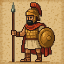
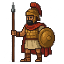
Enhance unit movement and rendering systems
- Updated movement logic to allow military units to move from any land tile, not just Plains.
- Added new systems for spawning and updating unit sprites and capital sprites.
- Introduced UnitSprite and CapitalSprite components for better entity management.
- Improved rendering logic to handle unit sprites instead of using gizmos for infantry.

diff --git a/dominion_earth/src/rendering.rs b/dominion_earth/src/rendering.rs
@@ -15,6 +15,16 @@ pub struct WorldTile {
     pub terrain_type: TerrainType,
 }
 
+#[derive(Component)]
+pub struct UnitSprite {
+    pub unit_entity: Entity,
+}
+
+#[derive(Component)]
+pub struct CapitalSprite {
+    pub civ_id: CivId,
+}
+
 /// Load tile assets
 pub fn setup_tile_assets(mut commands: Commands, asset_server: Res<AssetServer>) {
     let tile_assets = TileAssets {
@@ -92,16 +102,82 @@ fn get_civ_color(civ_id: &CivId) -> Color {
     Color::srgb(r + m, g + m, b + m)
 }
 
+/// System to spawn unit sprites once when units are created
+pub fn spawn_unit_sprites(
+    mut commands: Commands,
+    units: Query<(Entity, &MilitaryUnit, &Position), Without<UnitSprite>>,
+    unit_assets: Res<crate::unit_assets::UnitAssets>,
+) {
+    let tile_size = 64.0;
+    let map_offset = Vec2::new(-3200.0, -1600.0);
+
+    for (unit_entity, unit, position) in units.iter() {
+        let screen_pos = map_offset + Vec2::new(position.x as f32 * tile_size, position.y as f32 * tile_size);
+        
+        match unit.unit_type {
+            UnitType::Infantry => {
+                let sprite_entity = commands.spawn((
+                    Sprite::from_image(unit_assets.ancient_infantry.clone()),
+                    Transform::from_translation(screen_pos.extend(15.0))
+                        .with_scale(Vec3::splat(1.0)),
+                )).id();
+                
+                // Add UnitSprite component to the unit entity to track its sprite
+                commands.entity(unit_entity).insert(UnitSprite { unit_entity: sprite_entity });
+            }
+            _ => {
+                // For non-Infantry units, we'll still use gizmos for now
+            }
+        }
+    }
+}
+
+/// System to update unit sprite positions when units move
+pub fn update_unit_sprites(
+    units: Query<(&MilitaryUnit, &Position, &UnitSprite), Changed<Position>>,
+    mut sprites: Query<&mut Transform, With<Sprite>>,
+) {
+    let tile_size = 64.0;
+    let map_offset = Vec2::new(-3200.0, -1600.0);
+
+    for (_unit, position, unit_sprite) in units.iter() {
+        if let Ok(mut transform) = sprites.get_mut(unit_sprite.unit_entity) {
+            let screen_pos = map_offset + Vec2::new(position.x as f32 * tile_size, position.y as f32 * tile_size);
+            transform.translation = screen_pos.extend(15.0);
+        }
+    }
+}
+
+/// System to spawn capital sprites once
+pub fn spawn_capital_sprites(
+    mut commands: Commands,
+    civs: Query<(Entity, &Civilization, &Position), Without<CapitalSprite>>,
+    tile_assets: Res<TileAssets>,
+) {
+    let tile_size = 64.0;
+    let map_offset = Vec2::new(-3200.0, -1600.0);
+
+    for (civ_entity, civilization, position) in civs.iter() {
+        let screen_pos = map_offset + Vec2::new(position.x as f32 * tile_size, position.y as f32 * tile_size);
+        
+        let sprite_entity = commands.spawn((
+            Sprite::from_image(tile_assets.capital_ancient.clone()),
+            Transform::from_translation(screen_pos.extend(10.0))
+                .with_scale(Vec3::splat(1.0)),
+            CapitalSprite { civ_id: civilization.id },
+        )).id();
+        
+        commands.entity(civ_entity).insert(CapitalSprite { civ_id: civilization.id });
+    }
+}
+
 /// Simple 2D rendering system for civilizations and units (keeping this for overlays)
 pub fn render_world_overlays(
-    mut commands: Commands,
     mut gizmos: Gizmos,
     world_map: Res<WorldMap>,
-    tile_assets: Res<TileAssets>,
     civs: Query<(&Civilization, &Position)>,
     cities: Query<(&City, &Position)>,
     units: Query<(&MilitaryUnit, &Position)>,
-    unit_assets: Res<crate::unit_assets::UnitAssets>,
     camera: Query<&Transform, With<Camera>>,
 ) {
     // Get camera position for world-to-screen calculations
@@ -117,13 +193,6 @@ pub fn render_world_overlays(
         let screen_pos =
             map_offset + Vec2::new(position.x as f32 * tile_size, position.y as f32 * tile_size);
 
-        // Spawn a sprite for the capital city tile art
-        commands.spawn((
-            Sprite::from_image(tile_assets.capital_ancient.clone()),
-            Transform::from_translation(screen_pos.extend(10.0)) // Z=10 to render above terrain
-                .with_scale(Vec3::splat(1.0)),
-        ));
-
         // Draw a colored circle around the capital for this civilization
         let civ_color = get_civ_color(&civilization.id);
         gizmos.circle_2d(screen_pos, tile_size * 0.8, civ_color);
@@ -136,11 +205,8 @@ pub fn render_world_overlays(
 
         // City population indicator (circle to match capitals)
         let pop_size = (city.population as f32 / 5000.0).clamp(0.5, 2.0);
-        gizmos.circle_2d(
-            screen_pos,
-            tile_size * pop_size,
-            Color::srgb(1.0, 1.0, 0.0),
-        ); // Yellow circle for cities
+        gizmos.circle_2d(screen_pos, tile_size * pop_size, Color::srgb(1.0, 1.0, 0.0));
+        // Yellow circle for cities
     }
 
     // Render military units
@@ -150,19 +216,15 @@ pub fn render_world_overlays(
 
         match unit.unit_type {
             UnitType::Infantry => {
-                commands.spawn((
-                    Sprite::from_image(unit_assets.ancient_infantry.clone()),
-                    Transform::from_translation(screen_pos.extend(15.0)) // Z=15 above cities
-                        .with_scale(Vec3::splat(1.0)),
-                ));
+                // Infantry units are handled by sprite system, skip gizmo rendering
             }
             // For other unit types, keep diamond/circle for now
             _ => {
                 let unit_color = match unit.unit_type {
-                    UnitType::Cavalry => Color::srgb(0.5, 0.0, 0.5),  // Purple
-                    UnitType::Archer => Color::srgb(1.0, 0.27, 0.0),  // Orange Red
+                    UnitType::Cavalry => Color::srgb(0.5, 0.0, 0.5), // Purple
+                    UnitType::Archer => Color::srgb(1.0, 0.27, 0.0), // Orange Red
                     UnitType::Siege => Color::srgb(0.33, 0.33, 0.33), // Dark Gray
-                    UnitType::Naval => Color::srgb(0.0, 0.0, 0.5),    // Navy
+                    UnitType::Naval => Color::srgb(0.0, 0.0, 0.5),   // Navy
                     _ => Color::WHITE,
                 };
                 let diamond_size = tile_size * 0.8;

diff --git a/core_sim/src/systems.rs b/core_sim/src/systems.rs
@@ -333,23 +333,23 @@ pub fn spawn_civilizations_system(
     }
 }
 
-/// System to move all military units on land (Plains) to a random adjacent land tile each turn
+/// System to move all military units on land to a random adjacent land tile each turn
 pub fn move_units_on_land_each_turn(
     mut units: Query<(&mut Position, &MilitaryUnit)>,
     world_map: Res<WorldMap>,
     mut rng: ResMut<GameRng>,
 ) {
     for (mut pos, _unit) in units.iter_mut() {
-        // Only move if on a Plains tile
+        // Only move if on a land tile (not Ocean)
         if let Some(tile) = world_map.get_tile(*pos) {
-            if matches!(tile.terrain, crate::TerrainType::Plains) {
+            if !matches!(tile.terrain, crate::TerrainType::Ocean) {
                 // Get all adjacent positions
                 let adj = pos.adjacent_positions();
-                // Filter to valid land (Plains) tiles
+                // Filter to valid land (non-Ocean) tiles
                 let mut valid_moves = vec![];
                 for p in adj.iter() {
                     if let Some(adj_tile) = world_map.get_tile(*p) {
-                        if matches!(adj_tile.terrain, crate::TerrainType::Plains) {
+                        if !matches!(adj_tile.terrain, crate::TerrainType::Ocean) {
                             valid_moves.push(*p);
                         }
                     }

diff --git a/dominion_earth/src/main.rs b/dominion_earth/src/main.rs
@@ -40,7 +40,7 @@ fn main() {
                 (
                     setup_camera,
                     rendering::setup_tile_assets,
-                    unit_assets::setup_unit_assets, // <-- add this
+                    unit_assets::setup_unit_assets,
                     game::setup_game,
                     rendering::spawn_world_tiles.after(game::setup_game),
                 ),
@@ -52,6 +52,9 @@ fn main() {
                     input::handle_mouse_input,
                     game::game_update_system,
                     core_sim::systems::move_units_on_land_each_turn,
+                    rendering::spawn_unit_sprites,
+                    rendering::update_unit_sprites,
+                    rendering::spawn_capital_sprites,
                     ui::ui_system,
                     rendering::render_world_overlays,
                 ),
